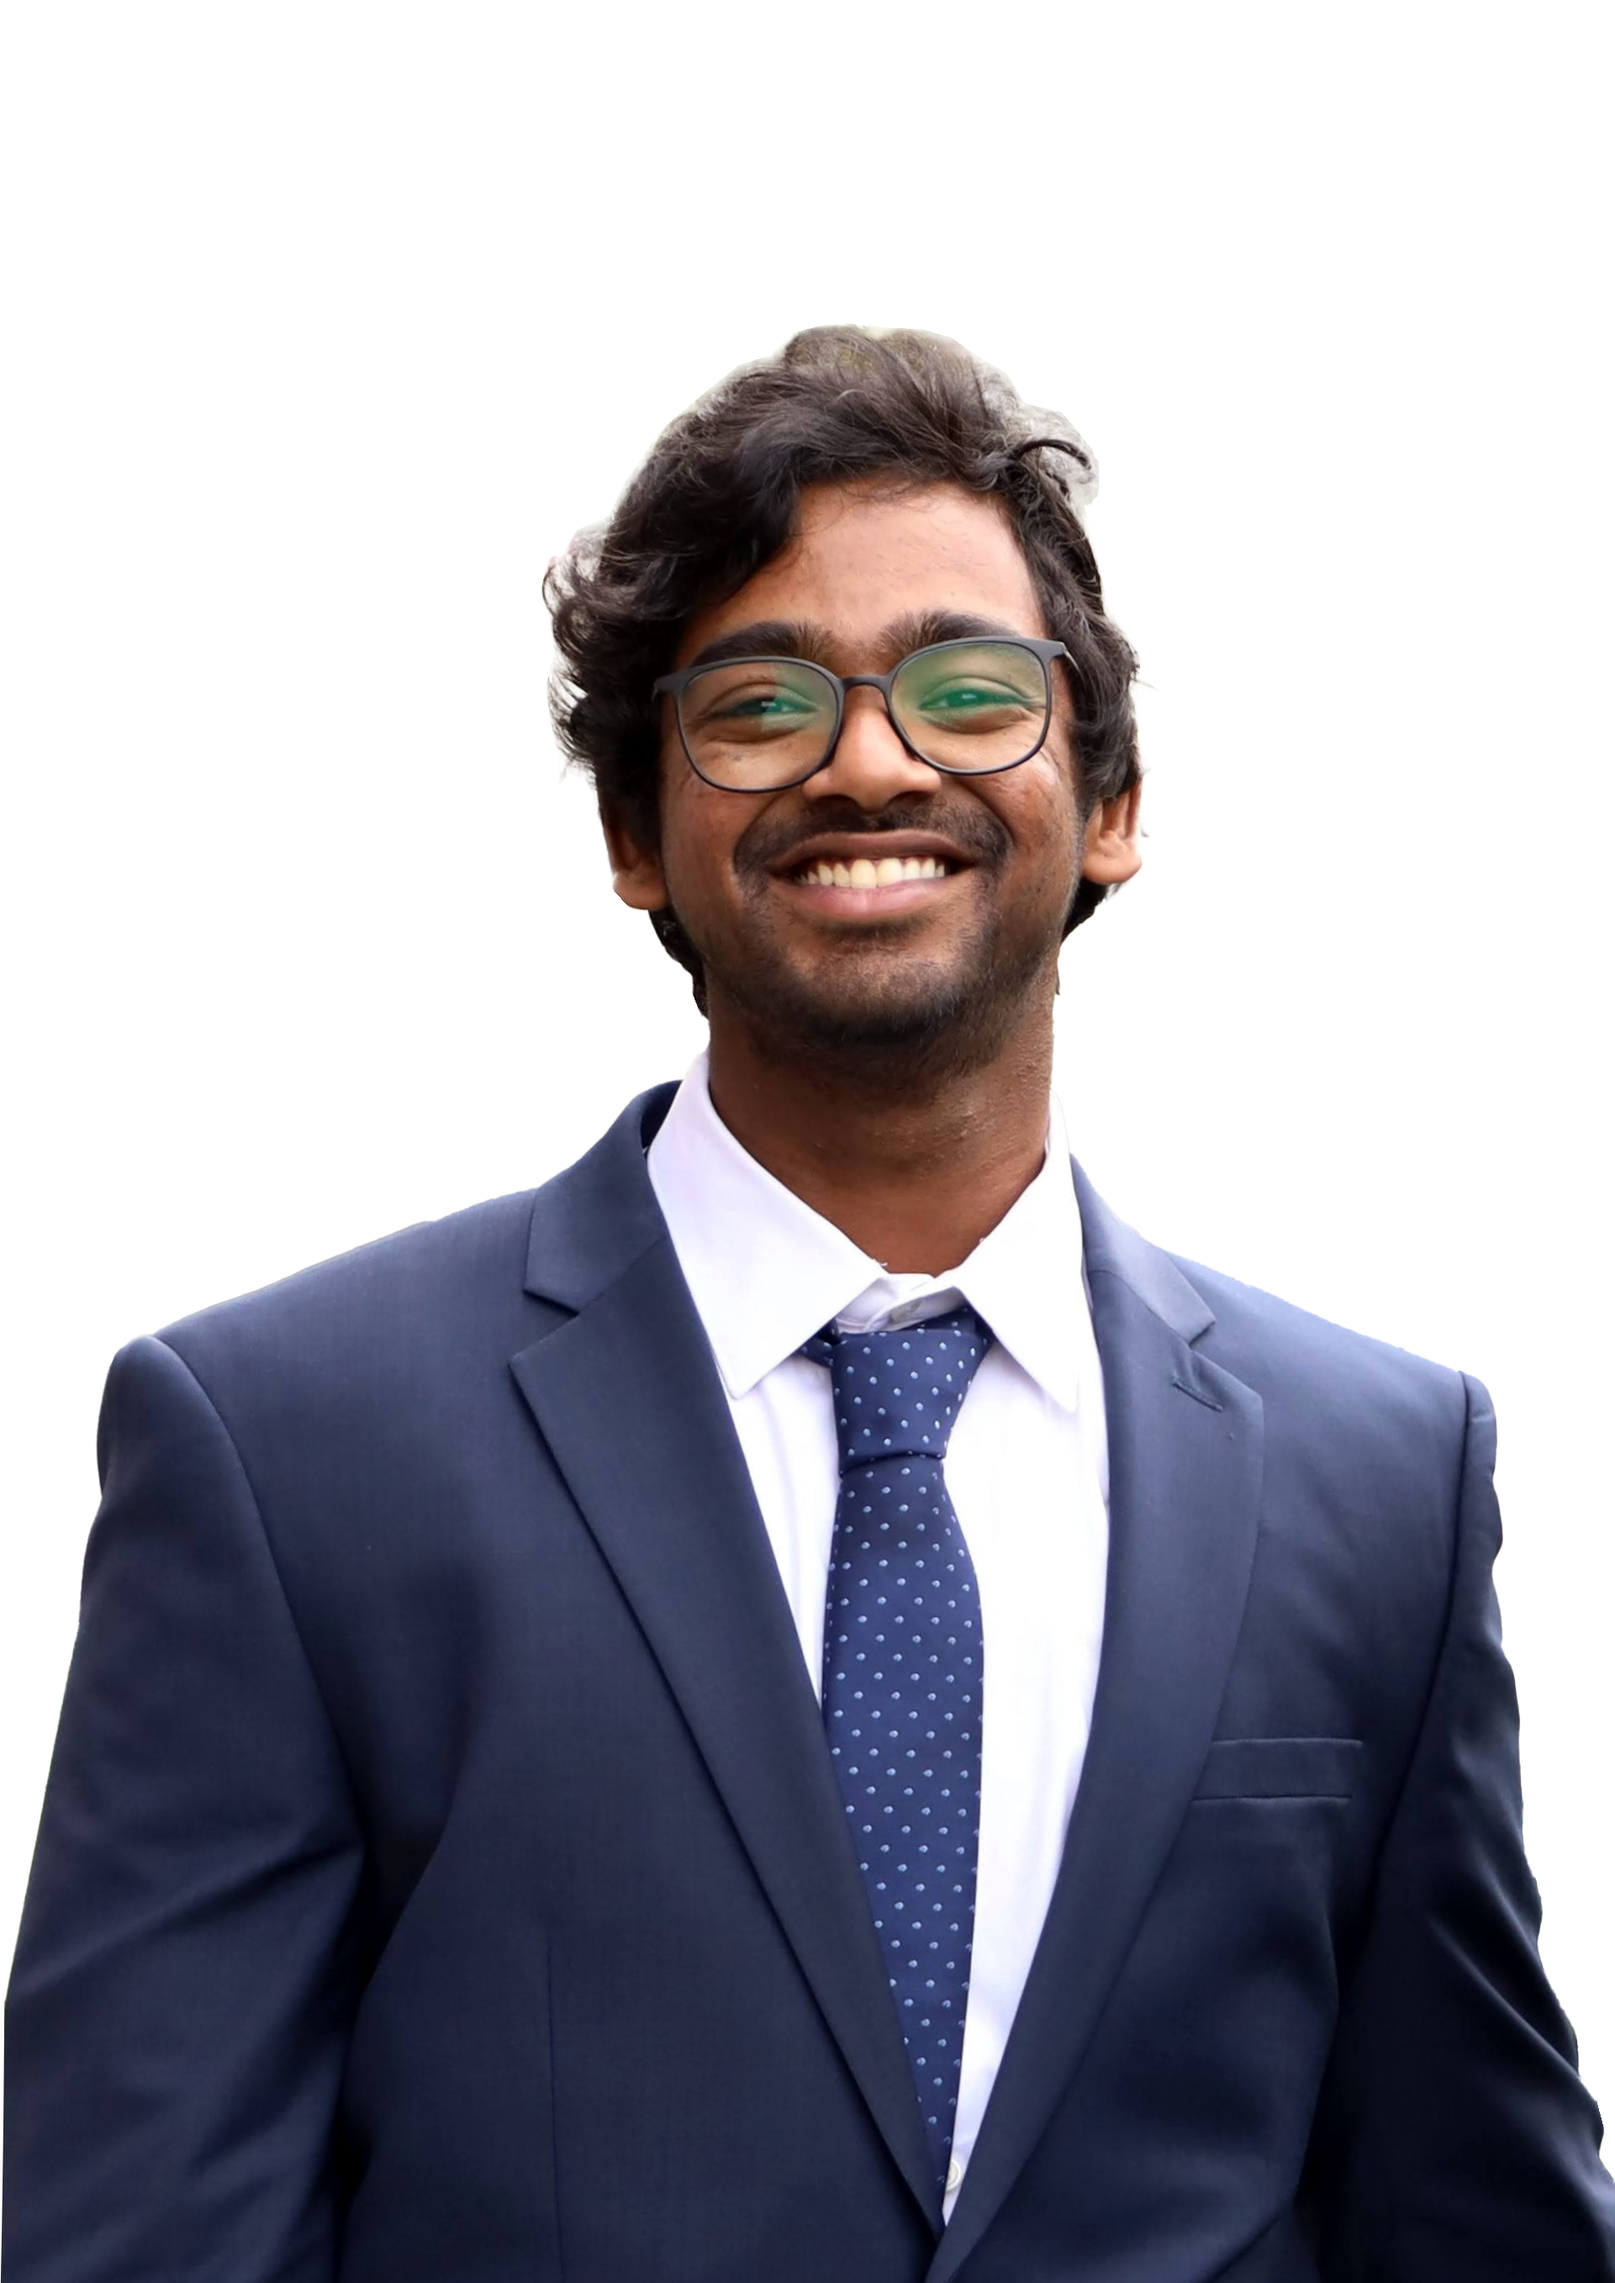
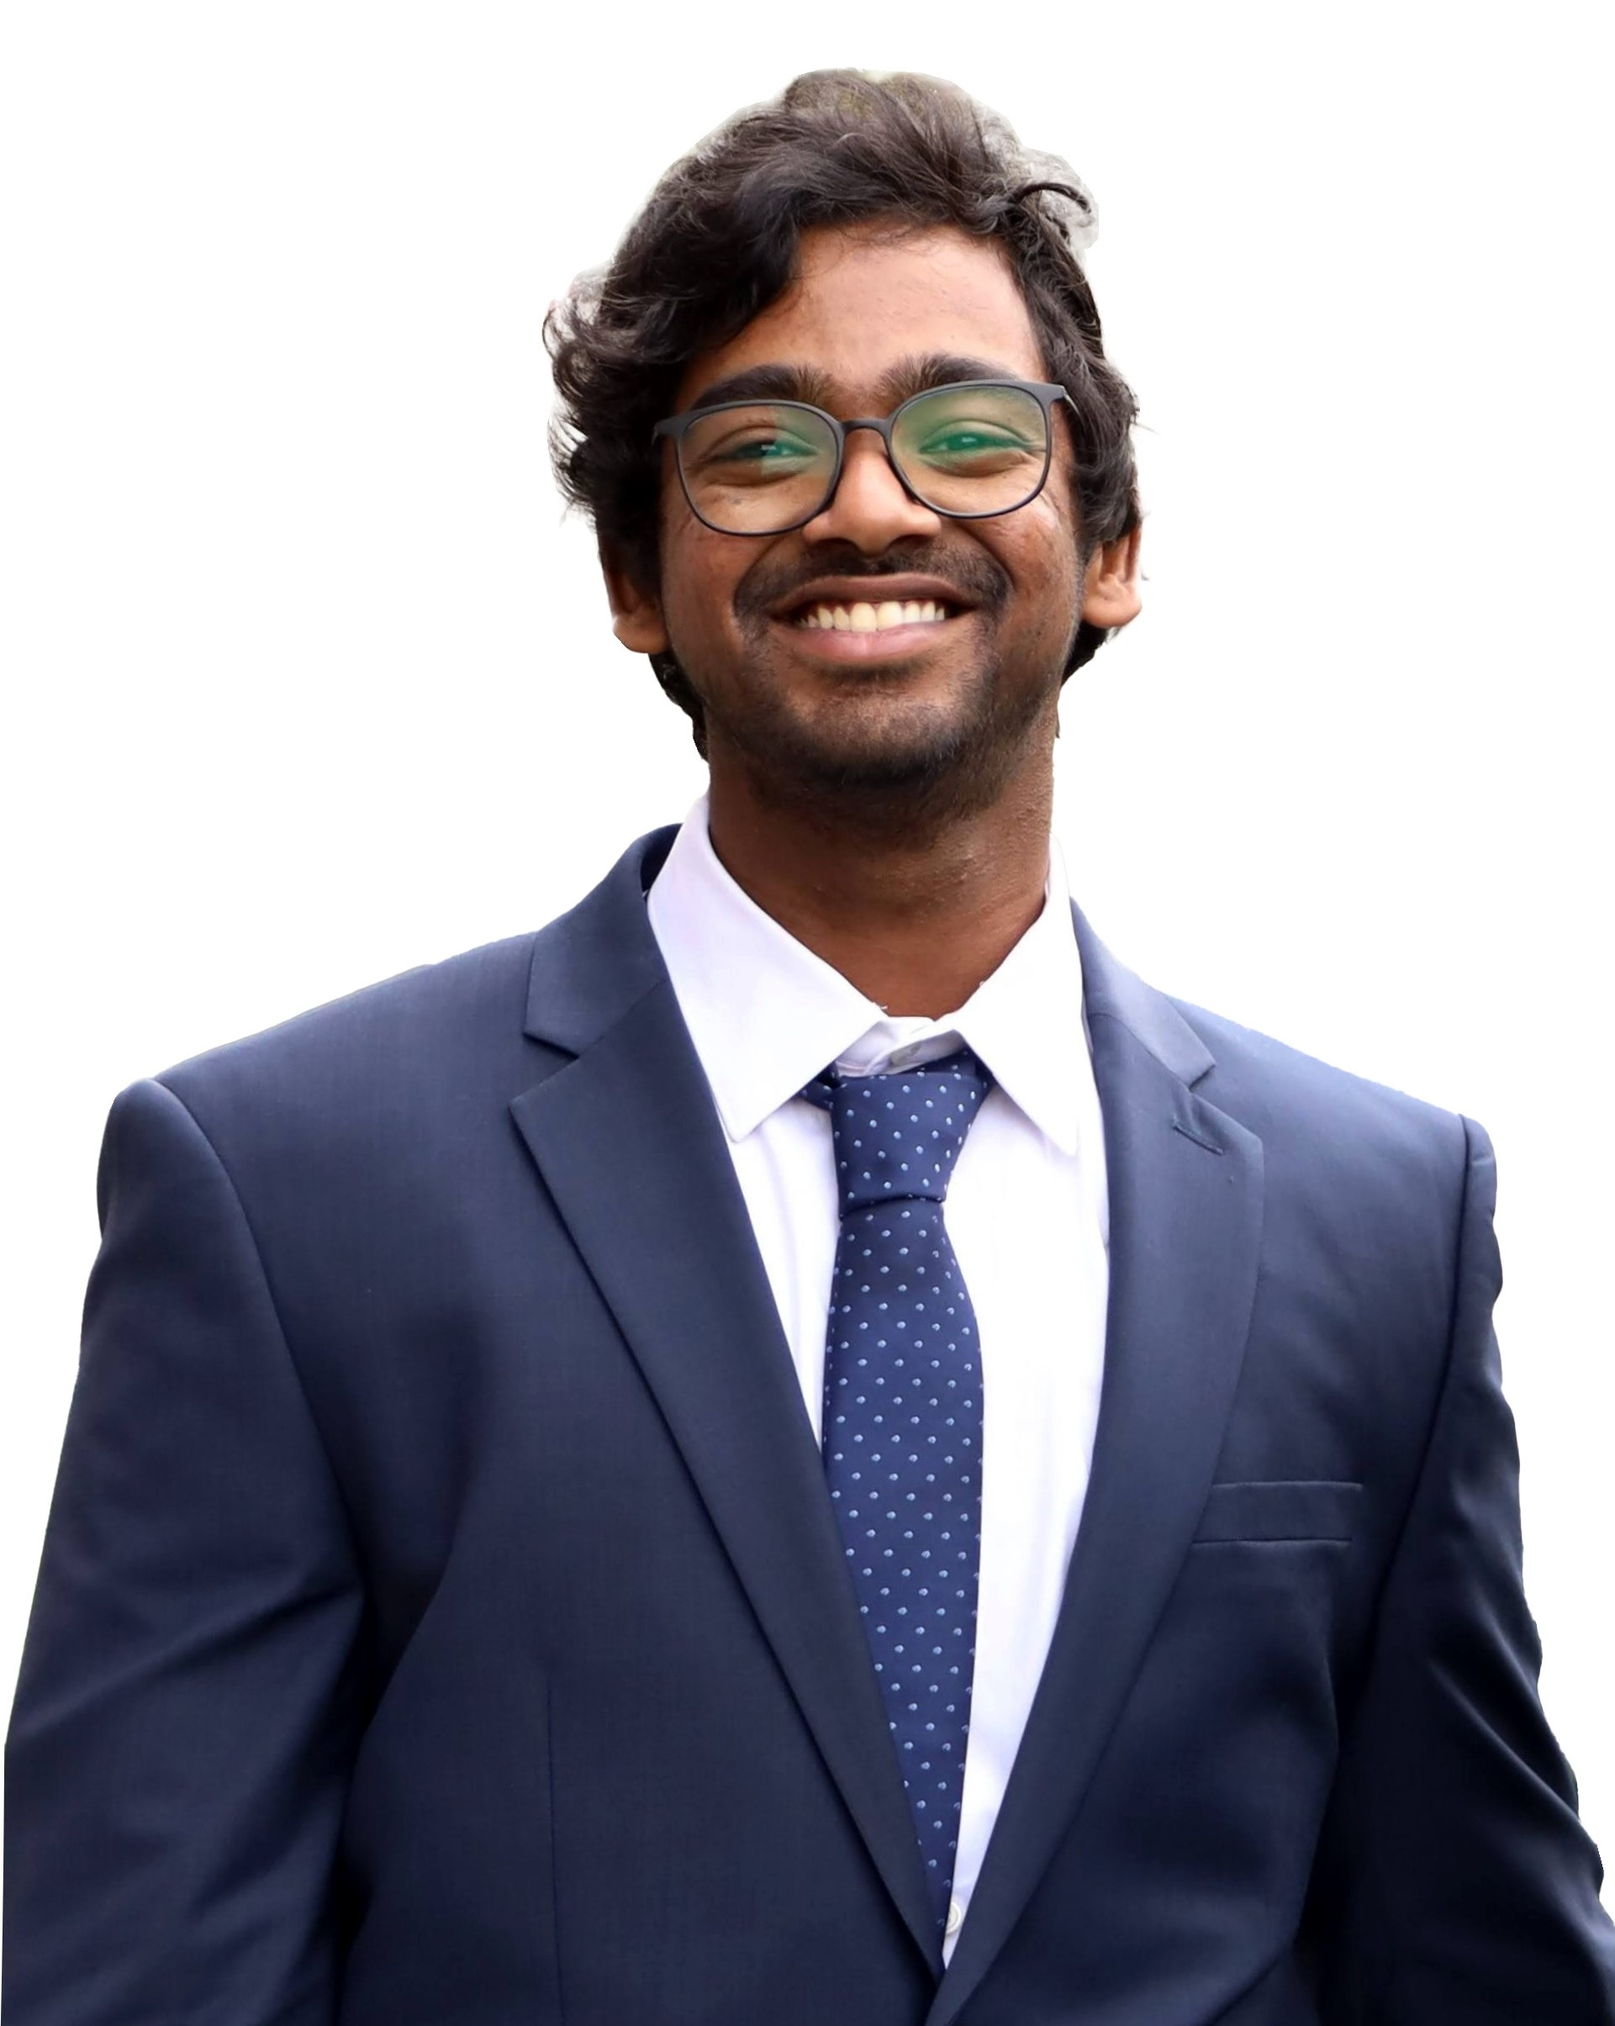
update

diff --git a/src/HomePage.js b/src/HomePage.js
@@ -46,12 +46,12 @@ function HomePage() {
                     <Grid item xs={12} sx={{ mb: 6 }}>
                         <Card style={{ height: "auto" }}>
                             <CardContent>
-                                <Grid container spacing={1} sx={{ mt: 2, mb: 1 }}>
+                                <Grid container spacing={1} sx={{  mb: 1 }}>
                                     <Grid
                                         item
                                         md={8}
                                         xs={12}
-                                        sx={{
+                                        sx={{mt: 2,
                                             marginLeft: '4%',
                                             pointerEvents: 'none',
                                         }}
@@ -66,13 +66,14 @@ function HomePage() {
                                             src={mypic}
                                             sx={{
                                                 marginLeft: { xs: 6, sm: 'none', md: "35%" },
+                        
                                                 pointerEvents: 'none',
                                                 width: {
                                                     xs: "70%",
                                                     sm: "80%",
                                                     md: "120%",
                                                     lg: "110%",
-                                                    xl: "80%",
+                                                    xl: "90%",
                                                 },
                                             }}
                                         ></Box>
